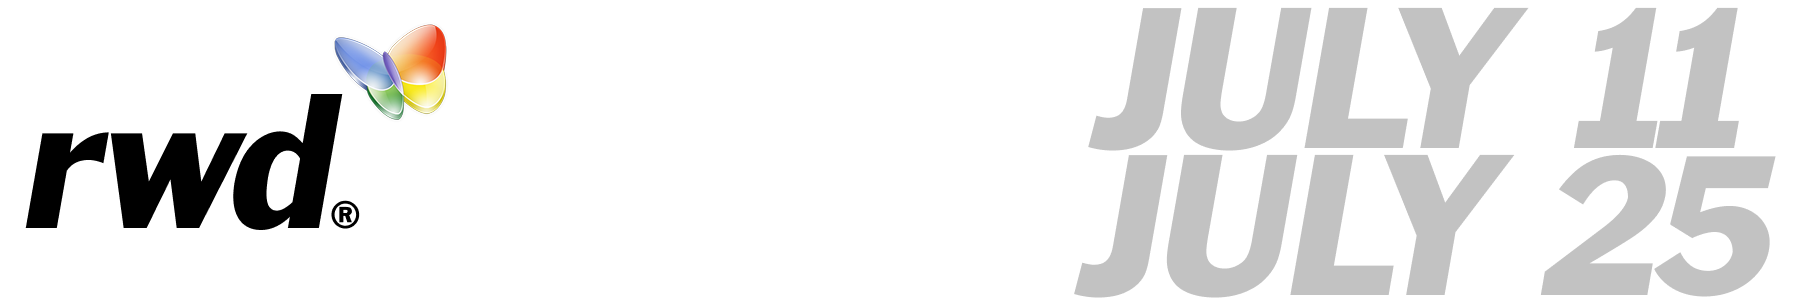
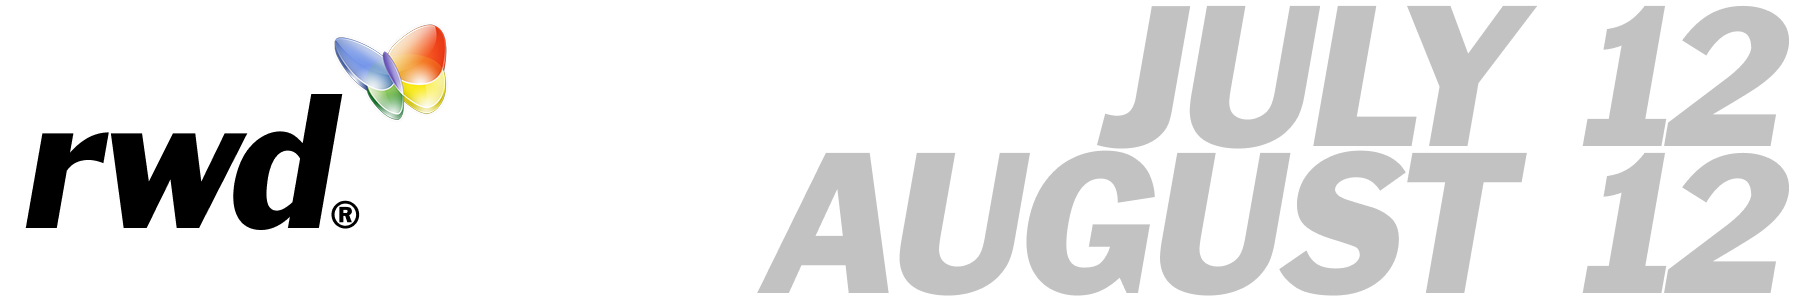
iusdf

Changed region(s): [[0.4049, 0.0, 0.9967, 0.9738]]

diff --git a/index.html b/index.html
@@ -99,7 +99,7 @@
             <div class="ie-content">
                 <div class="webpage-content msn-homepage">
                     <div class="msn-header">
-                        <span class="msn-date">Friday, July 11, 2025</span>
+                        <span class="msn-date">Saturday, July 12, 2025</span>
                         <span class="msn-join">Rewind V2</span>
                     </div>
 
@@ -154,35 +154,31 @@
                             <div class="msn-feature">
                                 <h3>Inspo</h3>
                                 <p style="font-size: 16px;">Need ideas? Here is some inspo you could use</p>
-                                <div class="inspiration-grid"
-                                    style="display: grid; grid-template-columns: repeat(auto-fit, minmax(200px, 1fr)); gap: 15px; margin: 10px 0 5px 0;">
-                                    <div class="app-example"
-                                        style="border: 1px solid #ccc; padding: 10px; background: #f8f8f8; text-align: center;">
-                                        <a href="https://archive.org/details/winamp264" target="_blank"
-                                            style="text-decoration: none; color: black;">
-                                            <h4>Media Player</h4>
-
-                                            <img src="images/unnamed (1).png" alt="Media Player"
-                                                style="width: auto; height: 300px; margin-top: 5px; border: none;">
+                                <div class="inspiration-grid">
+                                    <div class="app-example">
+                                        <a href="https://archive.org/details/winamp264" target="_blank">
+                                            <h4 style="font-size: 18px;">Media Player</h4>
+                                            <img src="images/unnamed (1).png" alt="Media Player">
                                         </a>
                                     </div>
-                                    <div class="app-example"
-                                        style="border: 1px solid #ccc; padding: 10px; background: #f8f8f8; text-align: center;">
-                                        <h4>System Utilities</h4>
-                                        <img src="images/xp_disk_cleanup.gif" alt="System Utilities"
-                                            style="width: auto; height: 300px; margin-top: 5px; border: none;">
+                                    <div class="app-example">
+                                        <a href="https://en.wikipedia.org/wiki/Disk_Cleanup" target="_blank">
+                                            <h4 style="font-size: 18px;">System Utilities</h4>
+                                            <img src="images/xp_disk_cleanup.gif" alt="System Utilities">
+                                        </a>
                                     </div>
-                                    <div class="app-example"
-                                        style="border: 1px solid #ccc; padding: 10px; background: #f8f8f8; text-align: center;">
-                                        <h4>Games & Sillies</h4>
-                                        <img src="images/FWk4LNsXoAUOfAV.jpg" alt="Games & Sillies"
-                                            style="width: auto; height: 300px; margin-top: 5px; border: none;">
+                                    <div class="app-example">
+                                        <a href="@https://www.gametop.com/category/windows-xp-games.html "
+                                            target="_blank">
+                                            <h4 style="font-size: 18px;">Games & Sillies</h4>
+                                            <img src="images/FWk4LNsXoAUOfAV.jpg" alt="Games & Sillies">
+                                        </a>
                                     </div>
-                                    <div class="app-example"
-                                        style="border: 1px solid #ccc; padding: 20px; background: #f8f8f8; text-align: center;">
-                                        <h4>Productivity!</h4>
-                                        <img src="images/6969986_1.png" alt="Productivity Tools"
-                                            style="width: auto; height: 280px; margin-top: 5px; border: none;">
+                                    <div class="app-example">
+                                        <a href="https://notepad-plus-plus.org/downloads/" target="_blank">
+                                            <h4 style="font-size: 18px;">Productivity!</h4>
+                                            <img src="images/6969986_1.png" alt="Productivity Tools">
+                                        </a>
                                     </div>
                                 </div>
                                 <p><em>Remember: Your app needs to actually work on Windows XP!</em></p>
@@ -240,7 +236,7 @@
                         <div class="msn-right-top">
                             <div class="msn-section">
                                 <h4>REWIND!</h4>
-                                <p>Runs from the 11th to the 23rd</p>
+                                <p>Runs from July 12th to August 12th</p>
                                 <p>Be there or be square</p>
                             </div>
                             <div class="msn-section">
@@ -252,14 +248,12 @@
                                 </ul>
                             </div>
                             <div class="msn-section" style="margin-top: 10px; border: none; border-radius: 0px;">
-                                <a href="https://athena.hackclub.com" target="_blank">
-                                    <img src="images/join athena.png" alt="Join The Athena Awards"
-                                        style="width: 100%; margin-top: 10px; border: none; border-radius: 0px;">
+                                <a href="https://athena.hackclub.com" target="_blank" class="ad-banner">
+                                    <img src="images/join athena.png" alt="Join The Athena Awards">
 
                                 </a>
-                                <a href="https://hackclub.com" target="_blank">
-                                    <img src="images/joinhc.png" alt="Join Hack Club"
-                                        style="width: 100%; margin-top: 10px; border: none; border-radius: 0px;">
+                                <a href="https://hackclub.com" target="_blank" class="ad-banner">
+                                    <img src="images/joinhc.png" alt="Join Hack Club">
 
                                 </a>
                             </div>

diff --git a/style.css b/style.css
@@ -490,7 +490,7 @@ marquee {
 .msn-content {
   display: flex;
   padding: 10px 6px;
-  gap: 10px; /* Add space between columns */
+  gap: 10px;
 }
 
 .msn-left {
@@ -604,10 +604,60 @@ marquee {
 
 .inspiration-grid {
   display: grid;
-  grid-template-columns: repeat(auto-fit, minmax(180px, 1fr));
+  grid-template-columns: repeat(auto-fit, minmax(200px, 1fr));
+  gap: 20px;
+  margin: 10px 0 20px 0;
 }
 
 .inspiration-grid h4 {
   margin-top: 0px;
-  margin-bottom: 5px;
+  margin-bottom: 10px;
+}
+
+.app-example {
+  border: 1px solid #ccc;
+  padding: 8px;
+  background: #f8f8f8;
+  text-align: center;
+}
+
+.app-example a {
+  text-decoration: none;
+  color: black;
+}
+
+.app-example img {
+  width: 100%;
+  height: 180px;
+  object-fit: cover;
+  border: none;
+}
+
+.ad-banner {
+  display: block;
+  position: relative;
+  width: 100%;
+  margin-top: 10px;
+  border: 1px solid #9c9c9c;
+  background: #ffffff;
+  box-sizing: border-box;
+}
+
+.ad-banner::before {
+  content: "Ad";
+  position: absolute;
+  top: -1px;
+  left: -1px;
+  padding: 0 4px;
+  font-size: 10px;
+  font-family: "MS Sans Serif", sans-serif;
+  background: #ffffcc;
+  border-right: 1px solid #9c9c9c;
+  border-bottom: 1px solid #9c9c9c;
+}
+
+.ad-banner img {
+  display: block;
+  width: 100%;
+  height: auto;
 }
